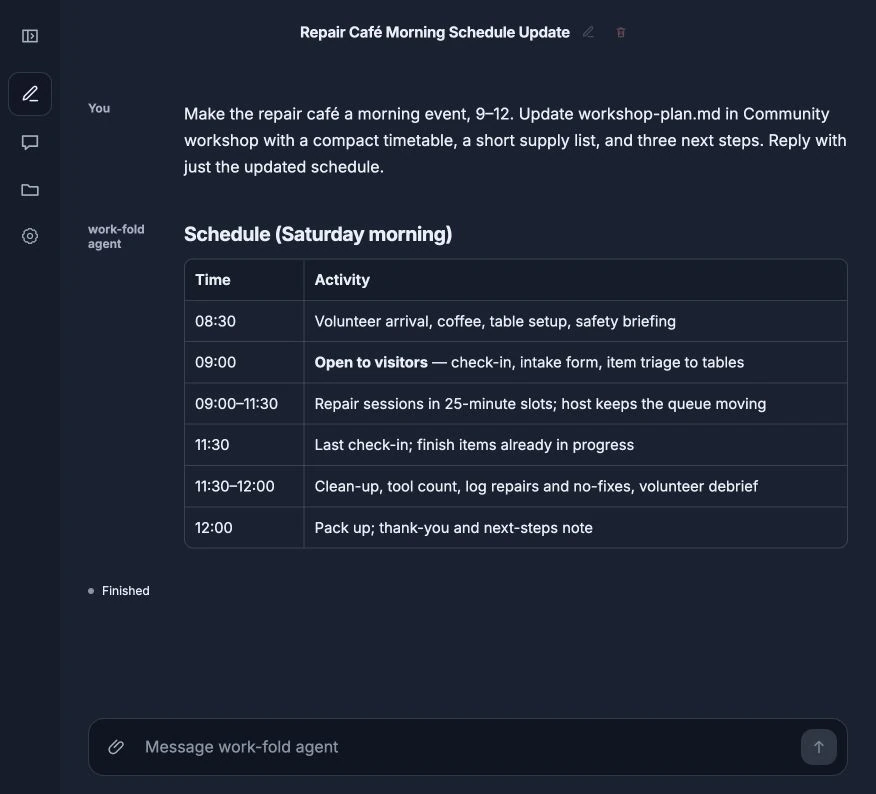
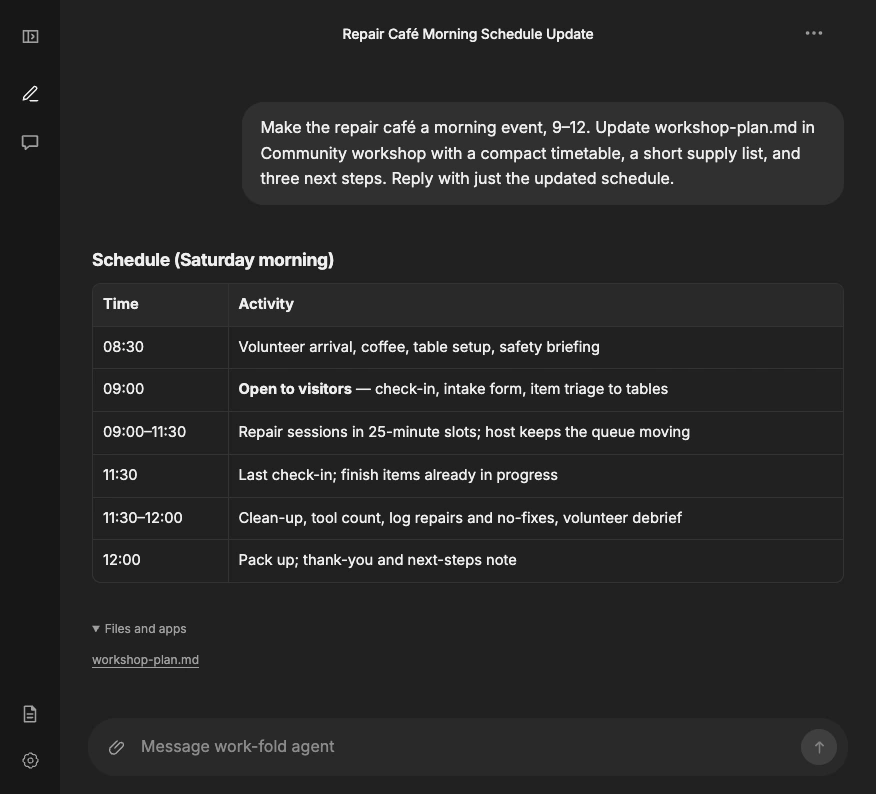
Refresh landing screenshots and add mobile filing motion

diff --git a/services/bridge/public/landing.js b/services/bridge/public/landing.js
@@ -1,6 +1,6 @@
-// Public product introduction. Every screen is a real Worker run in a
-// demonstration work-folder (or the paired web client), shown at one window
-// size. Keep claims to what the screens show.
+// Public product introduction. Saved Worker results are shown in the current
+// desktop release; the bridge renders the saved demonstration conversation.
+// Keep claims to what the screens show.
 const source = "https://github.com/Mat-Tom-Son/work-fold";
 const chromeExtension = "https://chromewebstore.google.com/detail/work-fold/ophmjbphcjmjcpcdpmfehbldiomkepgk";
 const macDownload = "/download/macos";
@@ -15,7 +15,7 @@ const folders = [
     alt: "The Research — repair café work-folder: a sources folder beside research-brief.md, open to a table of the public sources the Worker consulted.",
   },
   {
-    id: "orders", tab: "Purchase orders", screen: "orders", retina: false,
+    id: "orders", tab: "Purchase Orders", screen: "orders", retina: false,
     text: "Checks every price, prepares two purchase orders, and drafts the vendor emails. Nothing is sent.",
     alt: "The Purchasing — autumn workshop work-folder: two purchase orders and two email drafts in the sidebar, and order-register.md showing a $1,102.00 goods subtotal with both orders marked Draft — not sent.",
   },
@@ -37,7 +37,7 @@ const inbox = {
   alt: "A Studio inbox app built by a Worker, open in the work-fold sidebar: categories such as Needs reply and Purchasing, a message list, and one message open in its own tab with category and Mark not done controls.",
 };
 
-// Real paired web client captures: the work-fold agent planning a repair café.
+// Saved repair-café conversation rendered in the current bridge client.
 const web = {
   chat: { src: "/screens/web-chat-desktop.webp", width: 876, height: 794, alt: "The work-fold web client in a desktop browser: a request to make the repair café a 9–12 morning event, and the work-fold agent's reply with the updated Saturday schedule." },
   plan: { src: "/screens/web-plan-desktop.webp", width: 876, height: 794, alt: "The work-fold web client showing workshop-plan.md, the plan the work-fold agent saved in the Community workshop work-folder." },
@@ -164,7 +164,6 @@ export function renderLanding(app) {
             <h1 id="landing-title"><span>An AI Worker</span> <span>for every folder.</span></h1>
             <p class="landing-lede">work-fold is an AI agent harness for everyone. Workers use tools, work in your ordinary folders, and build the apps you need.</p>
             ${downloads}
-            <p class="landing-note"><span>Open source</span><span>Use your own model provider</span></p>
           </div>
         </div>
         <h2 class="landing-sr">Work done by Workers</h2>
@@ -271,6 +270,8 @@ function followScroll(shell) {
   const webSection = devices?.closest(".landing-web");
   const hands = shell.querySelector(".landing-handoff");
   const stacking = matchMedia("(min-width: 900px) and (min-height: 640px)");
+  const mobileStacking = matchMedia("(max-width: 899px) and (min-height: 560px)");
+  let mobileStack = false;
   const clamp = (value) => Math.min(1, Math.max(0, value));
   const nativeScroll = win.CSS?.supports("animation-timeline", "scroll(root block)")
     && win.CSS.supports("animation-range", "0px 1px");
@@ -320,26 +321,45 @@ function followScroll(shell) {
   function update() {
     frame = 0;
     const height = win.innerHeight;
-    if (stacking.matches && stack.length && needsMeasure) measure(stack[0]);
+    if (needsMeasure) {
+      shell.style.removeProperty("--mobile-bar");
+      const mobileCandidate = !stacking.matches && mobileStacking.matches && stack.length > 0;
+      if (mobileCandidate) {
+        // Equal caption heights keep every filed tab on the same baseline.
+        const barHeight = Math.max(...stack.map((item) => item.querySelector(".landing-folder-bar").offsetHeight));
+        shell.style.setProperty("--mobile-bar", `${barHeight}px`);
+      }
+      // Only pin a phone/tablet frame when its entire caption and image fit.
+      // Short landscape screens keep the ordinary, readable flow.
+      mobileStack = mobileCandidate
+        && Math.max(...stack.map((item) => item.offsetHeight)) <= height - shell.querySelector(".landing-nav").offsetHeight - 44;
+      shell.classList.toggle("mobile-stack", mobileStack);
+      if (stacking.matches && stack.length) measure(stack[0]);
+      else needsMeasure = false;
+    }
+    const stackActive = stacking.matches || mobileStack;
     // Read untransformed frames first. The inbox's own scaled bounds would
     // feed its last transform back into the next frame and make it oscillate.
-    const boxes = stacking.matches ? stack.map((item) => item.getBoundingClientRect()) : [];
+    const boxes = stackActive ? stack.map((item) => item.getBoundingClientRect()) : [];
     const appBox = appFrame?.getBoundingClientRect();
     const devicesBox = devices?.getBoundingClientRect();
     const handsBox = hands?.getBoundingClientRect();
     if (stacking.matches && stack.length) {
       if (!nativeScroll) reveal(stack[0], boxes[0]);
-      const { stickTop } = geometry;
+    }
+    if (stackActive && stack.length) {
+      const stickTop = mobileStack ? parseFloat(win.getComputedStyle(stack[0]).top) || 0 : geometry.stickTop;
       let front = 0;
       boxes.forEach((box, index) => { if (box.top <= stickTop + 1) front = index; });
       stack.forEach((item, index) => {
         const state = index < front ? "filed" : index === front ? "front" : "ahead";
         if (item.dataset.state !== state) item.dataset.state = state;
       });
-    } else if (stack.length) {
+    }
+    if (!stacking.matches && stack.length) {
       for (const name of ["--tx", "--ty", "--sc"]) stack[0].querySelector(".landing-folder-inner").style.removeProperty(name);
       copy.style.removeProperty("--fade");
-      stack.forEach((item) => { delete item.dataset.state; });
+      if (!mobileStack) stack.forEach((item) => { delete item.dataset.state; });
     }
     if (appBox) {
       // Starts close on the sidebar app, pulls back to the whole window.
@@ -373,7 +393,7 @@ function followScroll(shell) {
     return top;
   }
   function align(target) {
-    if (!stacking.matches || !shell.contains(target)) return;
+    if ((!stacking.matches && !mobileStack) || !shell.contains(target)) return;
     if (copy.contains(target)) {
       if (win.scrollY > 0) win.scrollTo({ top: 0, behavior: "instant" });
       return;
@@ -394,6 +414,7 @@ function followScroll(shell) {
   const remeasure = () => { needsMeasure = true; deviceCenters = null; request(); };
   win.addEventListener("resize", remeasure);
   stacking.addEventListener?.("change", remeasure);
+  mobileStacking.addEventListener?.("change", remeasure);
   shell.ownerDocument.fonts?.ready.then(remeasure);
   update();
 }

diff --git a/services/bridge/public/landing.css b/services/bridge/public/landing.css
@@ -101,7 +101,8 @@ html:has(.landing-shell) { scroll-padding-top: 96px; }
 .landing-shot { overflow: hidden; border-radius: 10px; box-shadow: 0 0 0 1px rgba(29, 32, 36, .1); background: #e8e9e4; }
 .landing-shot-media { position: relative; aspect-ratio: 1440 / 862; }
 .landing-shot-media img { width: 100%; height: 100%; cursor: zoom-in; }
-.landing-ring { position: absolute; left: 2.95%; top: 25%; width: 4.4%; aspect-ratio: 1; translate: -50% -50%; border-radius: 30%; box-shadow: 0 0 0 2px rgba(158, 58, 171, .9), 0 0 0 8px rgba(158, 58, 171, .16); pointer-events: none; }
+/* The release capture's Inbox control is 44 × 44 at (7, 198). */
+.landing-ring { position: absolute; left: calc(29 / 1440 * 100%); top: calc(220 / 862 * 100%); width: calc(52 / 1440 * 100%); aspect-ratio: 1; translate: -50% -50%; border-radius: 30%; box-shadow: 0 0 0 2px rgba(158, 58, 171, .9), 0 0 0 8px rgba(158, 58, 171, .16); pointer-events: none; }
 
 /* Chapters after the stack: a heading row, then the visual. */
 .landing-chapter { position: relative; z-index: 1; width: var(--width); margin: 0 auto; padding-top: clamp(88px, 12vh, 144px); }
@@ -278,12 +279,25 @@ html:has(.landing-shell) { scroll-padding-top: 96px; }
    timelines exist. Separate translate/scale keep any transform untouched. */
 @supports (animation-timeline: view()) {
   @media (max-width: 899px) {
-    .motion-ok :is(.landing-stack > .landing-folder:not(:first-of-type), .landing-app .landing-folder, .landing-window, .landing-devices > *) {
+    .motion-ok:not(.mobile-stack) .landing-stack > .landing-folder:not(:first-of-type),
+    .motion-ok :is(.landing-app .landing-folder, .landing-window, .landing-devices > *) {
       animation: landing-enter linear both;
       animation-timeline: view();
       animation-range: entry 0% cover 28%;
     }
   }
+}
+/* A fitting mobile frame uses the same filing motion, with four compact tabs.
+   The class is absent on short screens and when reduced motion is requested. */
+@media (max-width: 899px) {
+  .motion-ok.mobile-stack { --stick: calc(var(--nav) + 12px); }
+  .motion-ok.mobile-stack .landing-stack > .landing-folder { position: sticky; top: var(--stick); }
+  .motion-ok.mobile-stack.is-measuring .landing-stack > .landing-folder { position: relative; top: auto; }
+  .motion-ok.mobile-stack .landing-stack .landing-tab { width: 25%; min-width: 0; margin-left: calc(var(--tab-x, 0) * 25%); padding: 0 7px; gap: 5px; font-size: clamp(10px, 2.6vw, 13px); line-height: 1.1; }
+  .motion-ok.mobile-stack .landing-stack .landing-dot { width: 6px; height: 6px; }
+  .motion-ok.mobile-stack .landing-stack .landing-folder-bar { height: var(--mobile-bar, auto); min-height: var(--bar); }
+  .motion-ok.mobile-stack .landing-stack .landing-folder[data-state="filed"] .landing-tab { filter: brightness(.6) saturate(.7); }
+  .motion-ok.mobile-stack .landing-stack .landing-folder-body { box-shadow: 0 -18px 42px -22px rgba(0, 0, 0, .75), 0 30px 70px -30px rgba(0, 0, 0, .7); }
 }
 @keyframes landing-enter { from { opacity: .25; translate: 0 36px; scale: .965; } }
 @keyframes landing-fade { from { opacity: 0; } }
@@ -335,9 +349,9 @@ html:has(.landing-shell) { scroll-padding-top: 96px; }
      size; the full window is one tap away. The inbox crop keeps the sidebar
      where the Worker-built app lives. */
   .landing-shot-media { aspect-ratio: 830 / 640; overflow: hidden; }
-  .landing-shot-media img { position: absolute; left: calc(-590 / 830 * 100%); top: calc(-56 / 640 * 100%); width: calc(1440 / 830 * 100%); max-width: none; height: auto; }
-  .landing-folder-inbox .landing-shot-media img { left: calc(-10 / 830 * 100%); top: calc(-30 / 640 * 100%); }
-  .landing-folder-inbox .landing-ring { left: calc(32.5 / 830 * 100%); top: calc(185.5 / 640 * 100%); width: calc(63.4 / 830 * 100%); }
+  .landing-shot-media img { position: absolute; left: calc(-560 / 830 * 100%); top: calc(-56 / 640 * 100%); width: calc(1440 / 830 * 100%); max-width: none; height: auto; }
+  .landing-folder-inbox .landing-shot-media img { left: 0; top: calc(-30 / 640 * 100%); }
+  .landing-folder-inbox .landing-ring { left: calc(29 / 830 * 100%); top: calc(190 / 640 * 100%); width: calc(52 / 830 * 100%); }
   .motion-ok .landing-app .landing-shot-media { transform: none; }
   .landing-route { padding: 10px 12px !important; gap: 6px; }
   .landing-route-node { font-size: 12.5px; }
